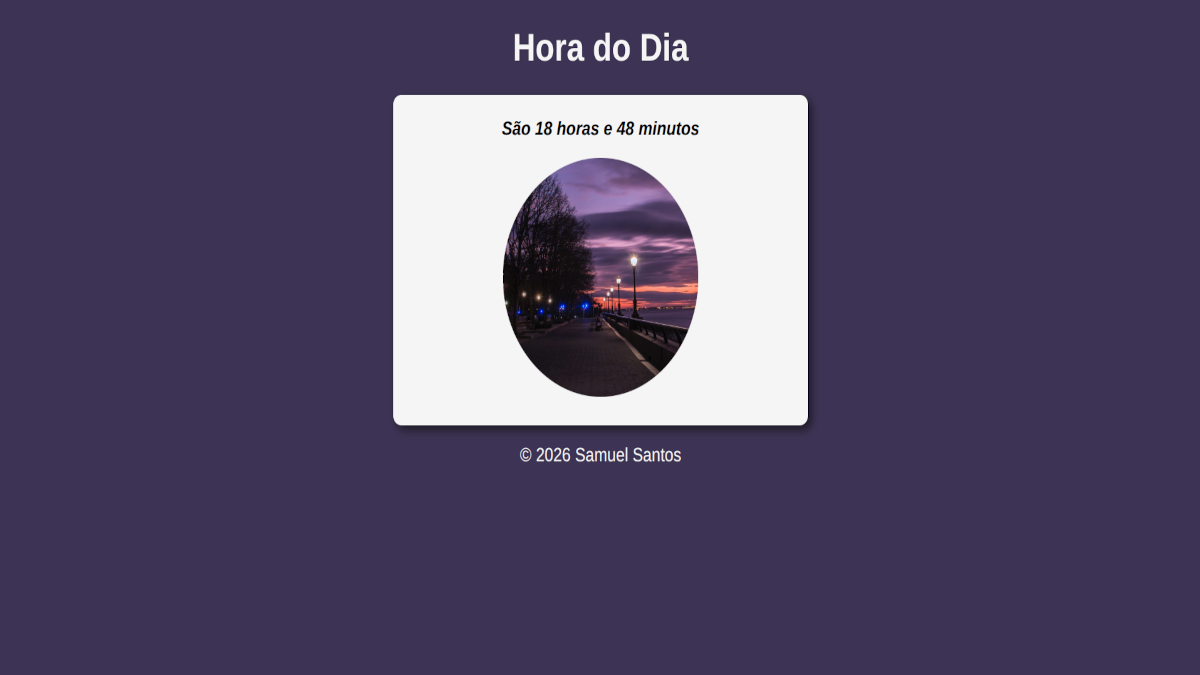
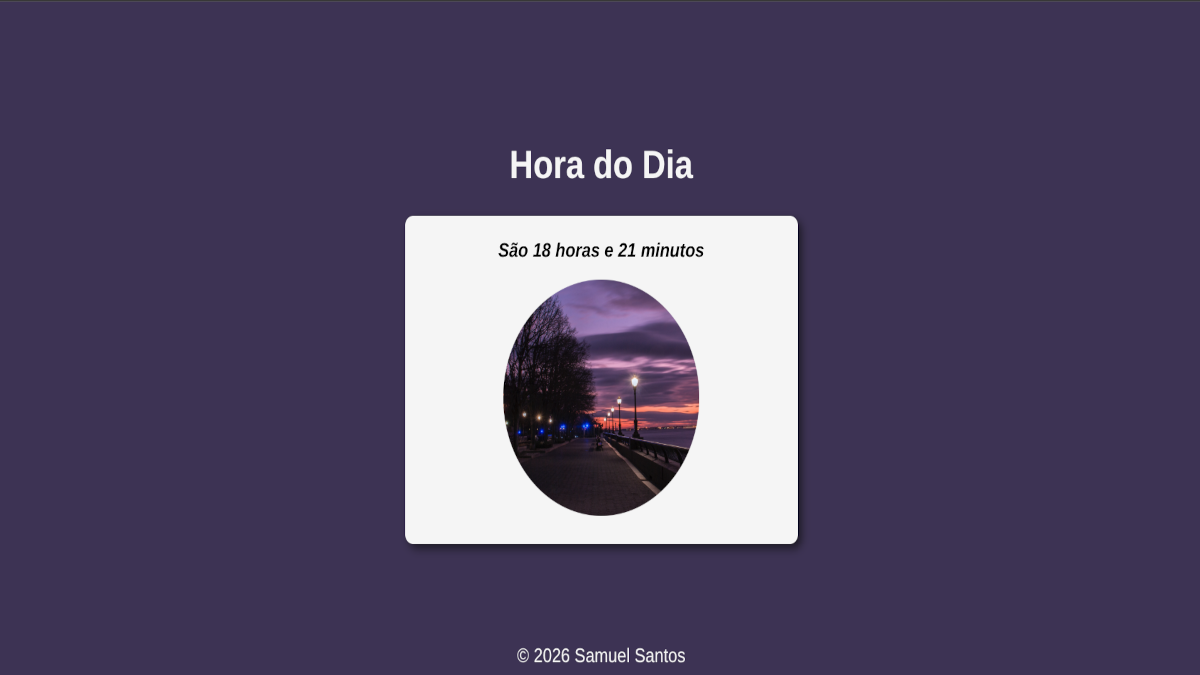
Modificação nos projetos

Changed region(s): [[0.3083, 0.1244, 0.6783, 0.8089], [0.4317, 0.0311, 0.5858, 0.0933], [0.4317, 0.9644, 0.5858, 0.9956]]

diff --git a/index.html b/index.html
@@ -263,23 +263,8 @@
                     </div><!----------Fim #projeto---------->
 
                     <div class="projeto">
-                        <a href="https://samuel-santos-ads-dev.github.io/projetoSocial/" target="_blank" rel="external noopener noreferrer">
-                            <img src="imagens/5projeto-social.png" alt="projeto redes sociais" class="foto">
-                        </a>
-                        <div class="projeto-info">
-                            <p class="periodo">2025</p>
-                            <h3 class="titulo">Projeto Social</h3>
-                            <p>O projeto Redes Sociais é um site desenvolvido com HTML e CSS, com navegação simples, simulando o acesso a diferentes plataformas de redes sociais em uma única interface.</p>
-                            <details class="descricao">
-                                <summary>Saiba mais...</summary>
-                                <p>O projeto Redes Sociais é um site desenvolvido com HTML e CSS, criado para praticar conceitos de layout e organização de interfaces. A aplicação simula o acesso a diferentes redes sociais a partir de uma navegação centralizada, proporcionando uma experiência simples e intuitiva ao usuário. O projeto demonstra domínio de estruturação HTML, estilização com CSS e adaptação do layout para diferentes dispositivos, sendo uma solução visualmente organizada e funcional.</p>
-                            </details>
-                        </div>
-                    </div><!----------Fim #projeto---------->
-
-                    <div class="projeto">
                         <a href="https://samuel-santos-ads-dev.github.io/projeto-login/" target="_blank" rel="external noopener noreferrer">
-                            <img src="imagens/6tela-login.png" alt="projeto tela de login" class="foto">
+                            <img src="imagens/5tela-login.png" alt="projeto tela de login" class="foto">
                         </a>
                         <div class="projeto-info">
                             <p class="periodo">2025</p>
@@ -288,6 +273,21 @@
                             <details class="descricao">
                                 <summary>Saiba mais...</summary>
                                 <p>O projeto Tela de Login é uma interface de autenticação estática criada com HTML, CSS e JavaScript. A página apresenta campos de entrada para usuário e senha, acompanhados de instruções claras e elementos visuais que facilitam a interação e orientação do usuário. O layout foi construído com foco em responsividade, garantindo adaptação para diferentes tamanhos de tela, e utiliza JavaScript para implementar comportamentos essenciais à interface, mesmo sendo uma simulação sem backend real. O projeto demonstra organização do código, atenção à estrutura de layout, responsividade e boas práticas básicas de front-end para interfaces de login.</p>
+                            </details>
+                        </div>
+                    </div><!----------Fim #projeto---------->
+
+                    <div class="projeto">
+                        <a href="https://samuel-santos-ads-dev.github.io/previsao-do-tempo/" target="_blank" rel="external noopener noreferrer">
+                            <img src="imagens/6previsao-tempo.png" alt="Projeto Previsão do Tempo" class="foto">
+                        </a>
+                        <div class="projeto-info">
+                            <p class="periodo">2026</p>
+                            <h3 class="titulo">Projeto Previsão do Tempo</h3>
+                            <p>Aplicação web desenvolvida com HTML, CSS e JavaScript, que permite consultar informações meteorológicas de diferentes cidades por meio de uma API externa.</p>
+                            <details class="descricao">
+                                <summary>Saiba mais...</summary>
+                                <p>O projeto Previsão do Tempo é uma aplicação web interativa desenvolvida com HTML, CSS e JavaScript. A aplicação permite pesquisar cidades e consultar informações meteorológicas, como temperatura atual, mínima, máxima, condição climática e umidade. O projeto foi desenvolvido com o objetivo de praticar integração com APIs externas, manipulação do DOM e atualização dinâmica de informações, proporcionando uma interface simples e intuitiva.</p>
                             </details>
                         </div>
                     </div><!----------Fim #projeto---------->
